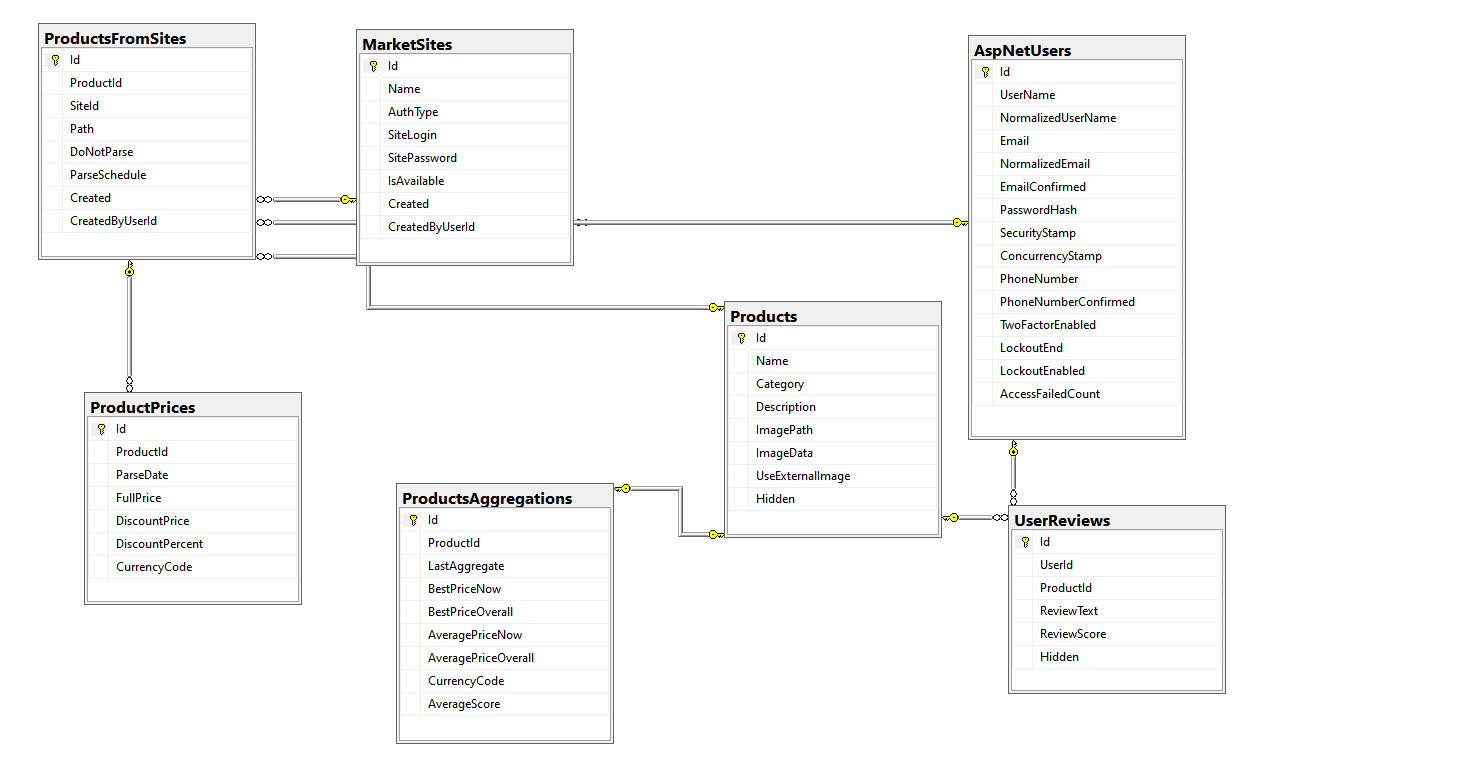
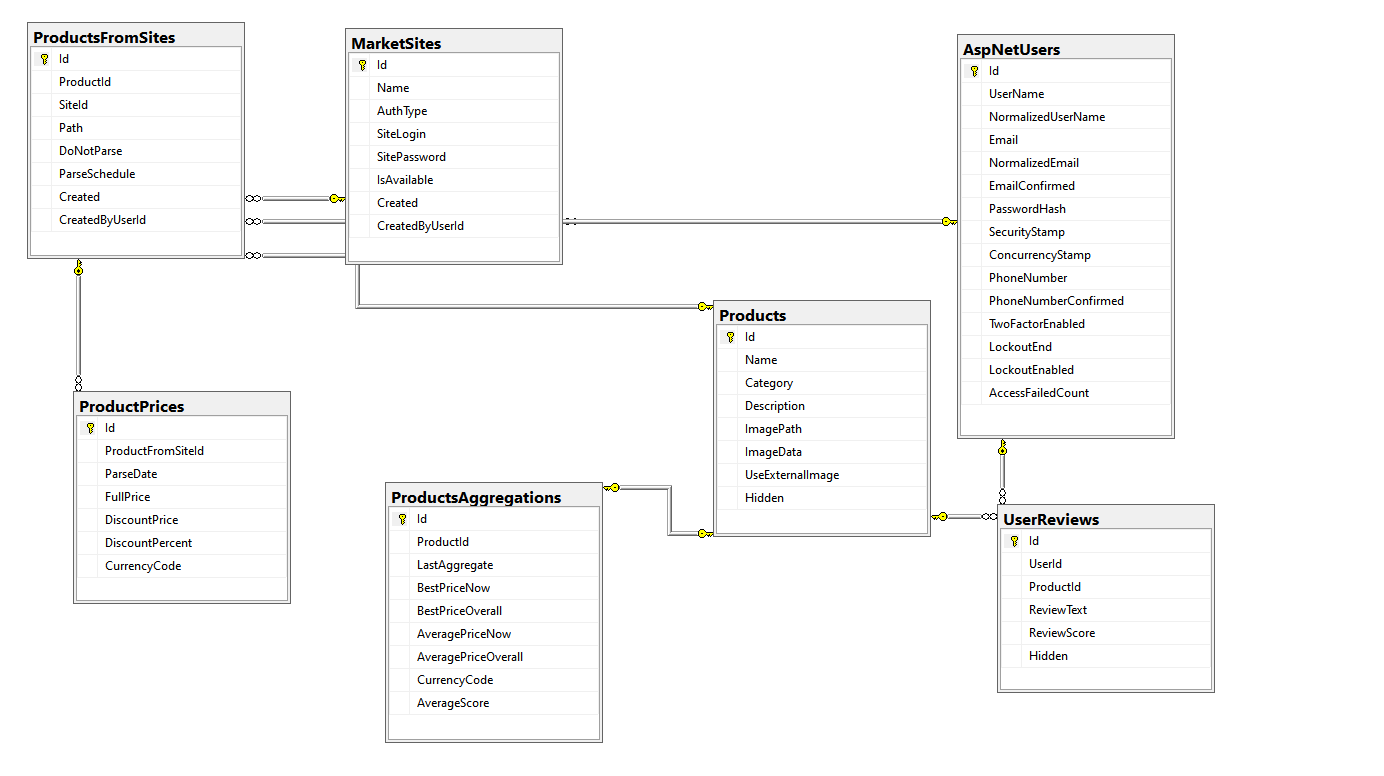
rename column in ProductPrices to be more undestandable

diff --git a/PriceParcer/Data/Migrations/20211212122913_RenameColumn.cs b/PriceParcer/Data/Migrations/20211212122913_RenameColumn.cs
@@ -1,0 +1,59 @@
+using Microsoft.EntityFrameworkCore.Migrations;
+
+#nullable disable
+
+namespace PriceParcer.Data.Migrations
+{
+    public partial class RenameColumn : Migration
+    {
+        protected override void Up(MigrationBuilder migrationBuilder)
+        {
+            migrationBuilder.DropForeignKey(
+                name: "FK_ProductPrices_ProductsFromSites_ProductId",
+                table: "ProductPrices");
+
+            migrationBuilder.RenameColumn(
+                name: "ProductId",
+                table: "ProductPrices",
+                newName: "ProductFromSiteId");
+
+            migrationBuilder.RenameIndex(
+                name: "IX_ProductPrices_ProductId",
+                table: "ProductPrices",
+                newName: "IX_ProductPrices_ProductFromSiteId");
+
+            migrationBuilder.AddForeignKey(
+                name: "FK_ProductPrices_ProductsFromSites_ProductFromSiteId",
+                table: "ProductPrices",
+                column: "ProductFromSiteId",
+                principalTable: "ProductsFromSites",
+                principalColumn: "Id",
+                onDelete: ReferentialAction.Cascade);
+        }
+
+        protected override void Down(MigrationBuilder migrationBuilder)
+        {
+            migrationBuilder.DropForeignKey(
+                name: "FK_ProductPrices_ProductsFromSites_ProductFromSiteId",
+                table: "ProductPrices");
+
+            migrationBuilder.RenameColumn(
+                name: "ProductFromSiteId",
+                table: "ProductPrices",
+                newName: "ProductId");
+
+            migrationBuilder.RenameIndex(
+                name: "IX_ProductPrices_ProductFromSiteId",
+                table: "ProductPrices",
+                newName: "IX_ProductPrices_ProductId");
+
+            migrationBuilder.AddForeignKey(
+                name: "FK_ProductPrices_ProductsFromSites_ProductId",
+                table: "ProductPrices",
+                column: "ProductId",
+                principalTable: "ProductsFromSites",
+                principalColumn: "Id",
+                onDelete: ReferentialAction.Cascade);
+        }
+    }
+}

diff --git a/PriceParcer/Data/Migrations/20211212122913_RenameColumn.Designer.cs b/PriceParcer/Data/Migrations/20211212122913_RenameColumn.Designer.cs
@@ -3,6 +3,7 @@ using System;
 using Microsoft.EntityFrameworkCore;
 using Microsoft.EntityFrameworkCore.Infrastructure;
 using Microsoft.EntityFrameworkCore.Metadata;
+using Microsoft.EntityFrameworkCore.Migrations;
 using Microsoft.EntityFrameworkCore.Storage.ValueConversion;
 using PriceParcer.Data;
 
@@ -11,9 +12,10 @@ using PriceParcer.Data;
 namespace PriceParcer.Data.Migrations
 {
     [DbContext(typeof(ApplicationDbContext))]
-    partial class ApplicationDbContextModelSnapshot : ModelSnapshot
+    [Migration("20211212122913_RenameColumn")]
+    partial class RenameColumn
     {
-        protected override void BuildModel(ModelBuilder modelBuilder)
+        protected override void BuildTargetModel(ModelBuilder modelBuilder)
         {
 #pragma warning disable 612, 618
             modelBuilder

diff --git a/PriceParcer/Data/Entities/ProductPrice.cs b/PriceParcer/Data/Entities/ProductPrice.cs
@@ -4,8 +4,8 @@
     {
         public Guid Id { get; set; }
 
-        public virtual ProductFromSites Product { get; set; }
-        public Guid ProductId { get; set; }
+        public virtual ProductFromSites ProductFromSite { get; set; }
+        public Guid ProductFromSiteId { get; set; }
 
         public DateTime ParseDate { get; set; }
         public double FullPrice { get; set; }
